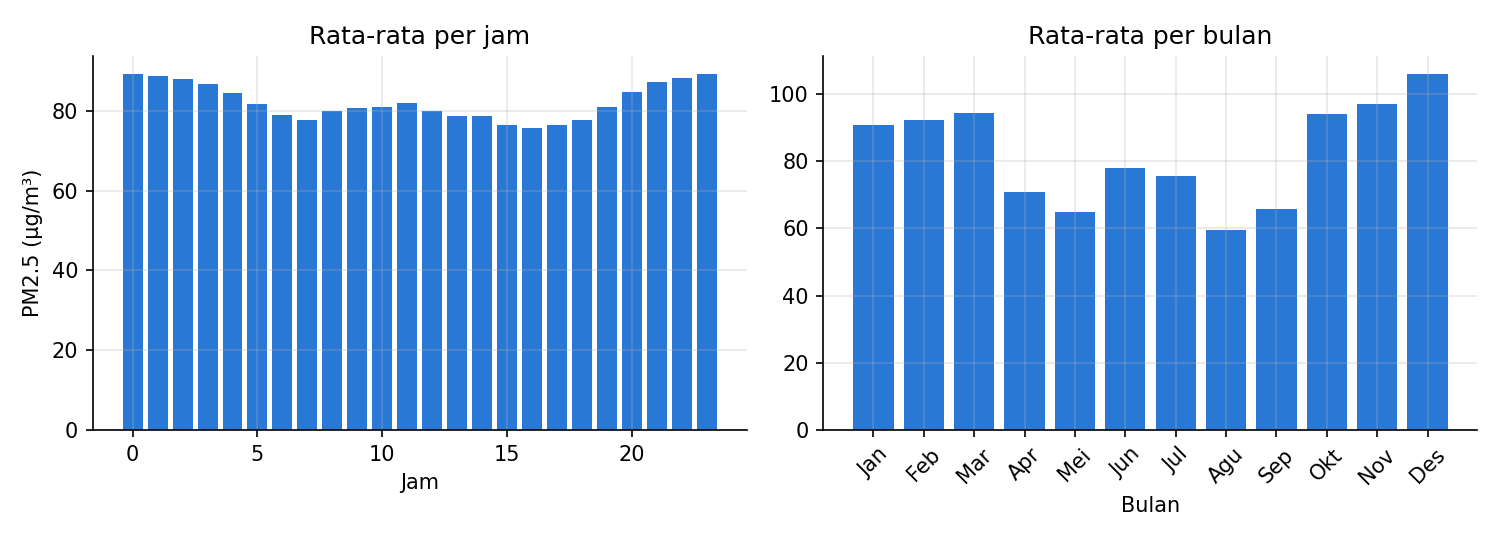
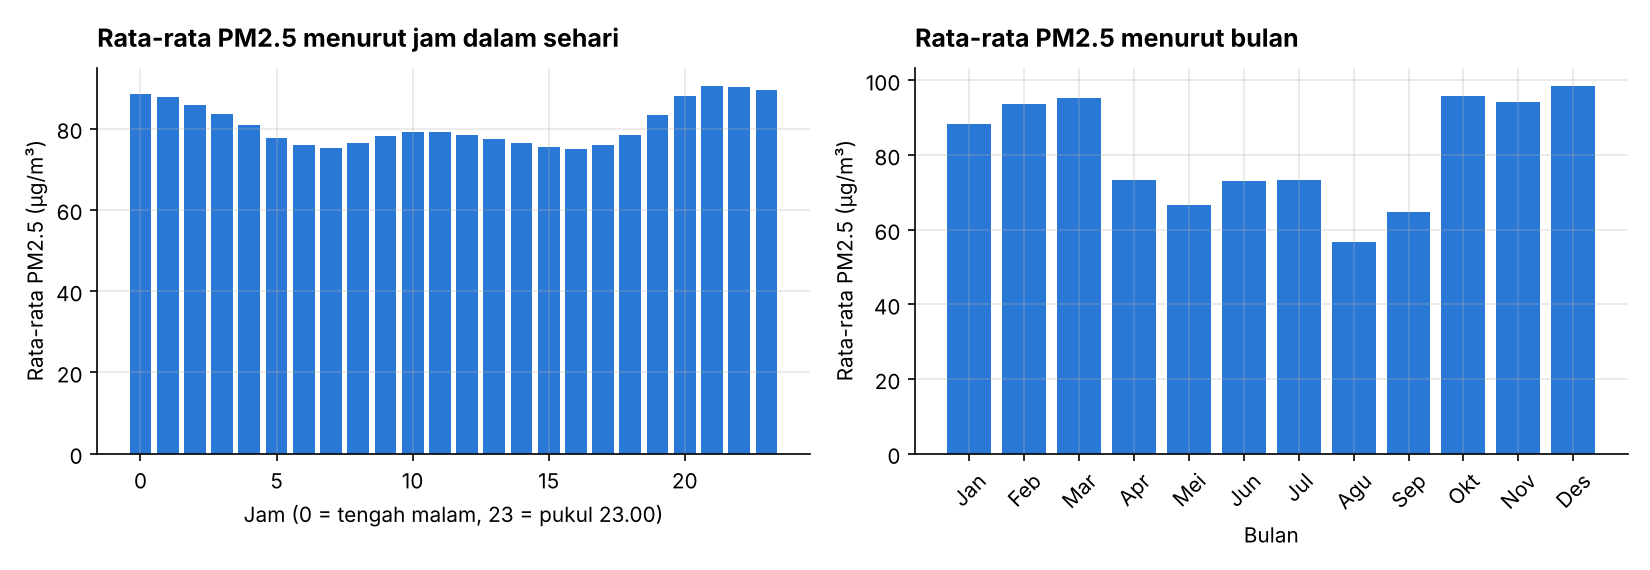
Batasi grafik notebook pada praproses dan perjelas judul grafik

diff --git a/Laporan/Deklarasi Penggunaan AI.md b/Laporan/Deklarasi Penggunaan AI.md
@@ -55,3 +55,4 @@ Dokumen ini diperbarui pada setiap perubahan yang dibantu AI dan menjadi bahan l
 | 2026-11-16 | Claude | *Notebook* tahap 2 sampai 4 (`Notebook/Tahap 2 EDA dan Praproses.ipynb`), `.gitignore`, dan dokumen yang menggambarkannya (`Notebook/README.md`, `Data/Data Olahan/README.md`, `Hasil/README.md`, `Hasil/Tabel/README.md`, `Hasil/Gambar/README.md`, `Konteks/Konteks Proyek ML PM25.md`, `Laporan/Ringkasan Hasil Per Tahapan.md`, `Laporan/Penjelasan Proyek dan Alur Tahapan.md`, `Laporan/Protokol Evaluasi Data Uji.md`) | Atas permintaan penulis, Claude menulis ulang *notebook* untuk desain 9 stasiun latih dan 3 stasiun ditahan: memuat 12 stasiun, aturan pemilihan stasiun ditahan [Usulan] dari data sebelum batas waktu, fitur per stasiun, lipatan dari jam unik, *baseline* dan perbandingan *forward fill* pada 9 stasiun, penjaga data uji untuk satu berkas uji dua kelompok, dan pemeriksaan desain (bagian 04.7). Claude menjalankan *notebook* penuh di salinan sementara (0 *error*), menulis skrip pemeriksa terpisah yang menghitung ulang fitur, target, batas waktu, dan pemilihan stasiun dari data mentah (16 pemeriksaan lolos), serta uji kanari (seluruh periode uji diganti nilai acak, berkas latih, tabel validasi, dan pemilihan stasiun tidak berubah). *Notebook* disimpan tanpa keluaran sel, dan berkas fitur (sekitar 100 MB) tidak di-*commit* sehingga ditambahkan ke `.gitignore`. Semua angka berasal dari eksekusi nyata. Penulis belum menjalankan *notebook* ini, belum menyetujui aturan pemilihan tiga stasiun ditahan (hasil sementara Dingling, Wanliu, Shunyi), dan desain belum dikonfirmasi dosen. |
 | 2026-11-16 | Claude | Penetapan stasiun ditahan (`Notebook/Tahap 2 EDA dan Praproses.ipynb`, `Konteks/Konteks Proyek ML PM25.md`, `Laporan/Ringkasan Hasil Per Tahapan.md`, `Laporan/Penjelasan Proyek dan Alur Tahapan.md`, `Laporan/Protokol Evaluasi Data Uji.md`, `Data/Data Olahan/README.md`) | Atas keputusan penulis, tiga stasiun ditahan (Dingling, Wanliu, Shunyi) dan identitas stasiun tidak dipakai sebagai fitur ditetapkan, bukan lagi usulan. Claude mengunci daftar itu di *notebook* dan menambah `assert` yang memeriksa bahwa aturan urutan jarak ke-1, ke-6, dan ke-12 masih menghasilkan daftar yang sama, lalu mengubah label di dokumen. Pengujian diulang: eksekusi penuh tanpa *error*, 16 pemeriksaan independen lolos, dan daftar kunci yang sengaja disalahkan dihentikan oleh `assert`. Desain 9/3 sendiri belum dikonfirmasi dosen. |
 | 2026-11-16 | Claude | Istilah "stasiun asing" (`Notebook/Tahap 2 EDA dan Praproses.ipynb`, `Hasil/Gambar/t3_pembagian_data.png`, `Laporan/Penjelasan Proyek dan Alur Tahapan.md`, `Laporan/Ringkasan Hasil Per Tahapan.md`, `Laporan/Protokol Evaluasi Data Uji.md`, `Konteks/Konteks Proyek ML PM25.md`, `Proposal/Proposal Proyek ML PM25 Beijing (Versi Panjang).md`, `Hasil/Tabel/README.md`, `Data/Data Olahan/README.md`, dan README lain) | Atas permintaan penulis, istilah "stasiun ditahan" yang dinilai ambigu diganti "stasiun asing" (stasiun yang belum pernah dilihat model) di notebook (nama variabel, kolom `kelompok_uji`, teks), dokumen, dan diagram. Baris Deklarasi sebelumnya tidak diubah karena mencatat riwayat. Claude juga menambah tabel istilah di awal notebook, memecah sel pemilihan stasiun asing menjadi dua langkah, memecah paragraf di 02.2 menjadi butir, dan menandai 04.6 sebagai bagian pendukung yang boleh dilewati. Diuji ulang: eksekusi penuh tanpa *error* dan 16 pemeriksaan independen lolos. Tidak ada angka baru. |
+| 2026-11-16 | Claude | Grafik *notebook* (`Notebook/Tahap 2 EDA dan Praproses.ipynb`, `Hasil/Gambar/`, `Hasil/Gambar/README.md`, `Laporan/Ringkasan Hasil Per Tahapan.md`) | Atas permintaan penulis, grafik dibatasi pada praproses dan diberi judul yang jelas. Claude menulis ulang enam grafik (judul berupa pertanyaan atau pernyataan, satu kalimat cara membaca, label nilai, nama kolom berbahasa Indonesia), menghapus empat grafik yang tidak mendukung keputusan praproses (deret waktu harian, rata-rata per stasiun, bulanan antarstasiun, RMSE *baseline* per *fold*), dan menghapus empat PNG pilot yang tidak lagi dibuat. Enam PNG `t2_` diganti hasil eksekusi *notebook* 9/3 di salinan sementara. Diuji: eksekusi penuh tanpa *error*, 16 pemeriksaan independen lolos, grafik diperiksa visual. Tabel di `Hasil/Tabel/` belum diperbarui. |

diff --git a/Hasil/Gambar/README.md b/Hasil/Gambar/README.md
@@ -1,17 +1,15 @@
 # Gambar
 
-Sebelas gambar: satu diagram pembagian data (`t3_`), sembilan EDA tahap 2 (isi saat ini masih hasil pilot data latih Tiantan, kecuali nomor 08 dan 09 yang membandingkan stasiun; *notebook* 9/3 memakai 9 stasiun latih digabung dan menimpa gambar ini saat dijalankan). Awalan `t2_` menandai tahap 2, `t3_` tahap 3 (diagram dibuat dengan skrip `matplotlib`, bukan keluaran *notebook*), dan `t4_` tahap 4, nomor mengikuti urutan di *notebook*.
+Tujuh gambar: enam grafik praproses dari *notebook* tahap 2 (`t2_`) dan satu diagram pembagian data (`t3_`, dibuat dengan skrip `matplotlib`, bukan keluaran *notebook*). Keenam grafik `t2_` berasal dari eksekusi *notebook* 9/3 pada 16 Nov 2026 (9 stasiun latih digabung, hanya data latih) dan ditimpa setiap *notebook* dijalankan. Nomor mengikuti urutan di *notebook*. Setiap grafik berjudul berupa pertanyaan atau pernyataan yang menyebut data latih, dengan satu kalimat cara membaca di bawah judul.
 
-| Berkas | Isi |
-|---|---|
-| `t2_01_sebaran_pm25.png` | Sebaran PM2.5 |
-| `t2_02_deret_waktu_harian.png` | Deret waktu harian |
-| `t2_03_pola_jam_bulan.png` | Pola menurut jam dan bulan |
-| `t2_04_nilai_hilang_per_kolom.png` | Nilai hilang per kolom |
-| `t2_05_panjang_celah.png` | Panjang celah nilai hilang |
-| `t2_06_korelasi_dengan_besok.png` | Korelasi tiap variabel jam *t* dengan PM2.5 jam *t*+24 |
-| `t2_07_autokorelasi.png` | Autokorelasi PM2.5 |
-| `t2_08_rata_rata_per_stasiun.png` | Rata-rata PM2.5 per stasiun |
-| `t2_09_bulanan_antarstasiun.png` | Rata-rata bulanan antarstasiun |
-| `t3_pembagian_data.png` | Diagram pembagian data: 9 stasiun latih, 3 stasiun asing, uji 20% periode terakhir |
-| `t4_01_baseline_rmse_per_fold.png` | RMSE *naive forecast* dan regresi linear di tiap *fold* validasi data latih |
+Grafik deret waktu harian, rata-rata per stasiun, bulanan antarstasiun, dan RMSE *baseline* per *fold* (`t2_02`, `t2_08`, `t2_09`, `t4_01`) tidak lagi dibuat karena tidak mendukung keputusan praproses; angka *baseline* tetap ada di tabel `Hasil/Tabel/`.
+
+| Berkas | Isi | Keputusan praproses yang didukung |
+|---|---|---|
+| `t2_01_sebaran_pm25.png` | Sebaran PM2.5 per jam, dengan median dan rata-rata | Nilai ekstrem dipertahankan, tidak dibuang |
+| `t2_03_pola_jam_bulan.png` | Pola PM2.5 menurut jam dan bulan | Fitur jam dan bulan |
+| `t2_04_nilai_hilang_per_kolom.png` | Persen nilai hilang per kolom | Penanganan nilai hilang |
+| `t2_05_panjang_celah.png` | Lama data PM2.5 kosong berturut-turut | Tanpa *forward fill* dan batas celah |
+| `t2_06_korelasi_dengan_besok.png` | Korelasi tiap variabel jam *t* dengan PM2.5 jam *t*+24 | Pemilihan variabel masukan |
+| `t2_07_autokorelasi.png` | Korelasi PM2.5 dengan PM2.5 beberapa jam sebelumnya | Fitur *lag* |
+| `t3_pembagian_data.png` | Diagram pembagian data: 9 stasiun latih, 3 stasiun asing, uji 20% periode terakhir | Skema pembagian data |

diff --git a/Laporan/Ringkasan Hasil Per Tahapan.md b/Laporan/Ringkasan Hasil Per Tahapan.md
@@ -42,7 +42,7 @@ Keputusan LIP 16 Nov 2026 menggantikan skema "latih di Tiantan, uji di Dingling"
 
 Semua angka berasal dari eksekusi `Notebook/Tahap 2 EDA dan Praproses.ipynb` pada stasiun Tiantan dan **hanya memakai data latih**, kecuali disebut lain. *Notebook* dijalankan ulang 15 Nov 2026 setelah keputusan tanpa *forward fill*, jarak aman 24 jam, dan penambahan *baseline* (0 *error*, 10 grafik tertanam). Dua tabel EDA identik dengan eksekusi sebelumnya.
 
-Keluaran *notebook*: sepuluh grafik di `Hasil/Gambar/` (sembilan EDA bernama `t2_`, satu *baseline* bernama `t4_`), enam tabel di `Hasil/Tabel/` (dua EDA, tiga dasar keputusan, satu *baseline*), dan fitur siap pakai (latih dan uji) di `Data/Data Olahan/`. Berkas pilot Tiantan dihapus 16 Nov 2026 supaya *notebook* dijalankan ulang di bawah desain 9/3, sehingga angka tahap 2 sampai 4 di dokumen ini adalah hasil pilot. Berkas fitur uji hanya disimpan, tidak dibuka untuk analisis.
+Keluaran *notebook*: enam grafik praproses di `Hasil/Gambar/` (bernama `t2_`), enam tabel di `Hasil/Tabel/` (dua EDA, tiga dasar keputusan, satu *baseline*), dan fitur siap pakai (latih dan uji) di `Data/Data Olahan/`. Berkas pilot Tiantan dihapus 16 Nov 2026 supaya *notebook* dijalankan ulang di bawah desain 9/3, sehingga angka tahap 2 sampai 4 di dokumen ini adalah hasil pilot. Berkas fitur uji hanya disimpan, tidak dibuka untuk analisis.
 
 - **Pembagian waktu:** data uji dimulai 2016-05-12 19:00 (20% jam terakhir), disisihkan sebelum eksplorasi dan tidak dibuka. Data latih seluruh stasiun 336.612 baris (80%).
 - **Sebaran PM2.5:** median 59, rata-rata 82,2, miring ke kanan (*skewness* 1,91). Galat besar saat episode polusi tinggi akan mendominasi RMSE.
